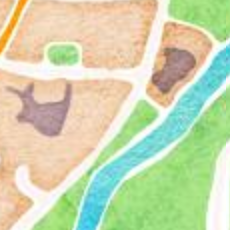
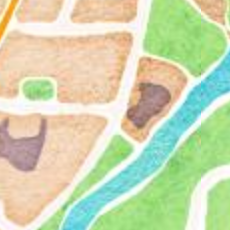
Move RST more to centre of Stratford map.

diff --git a/rsc.data.js b/rsc.data.js
@@ -22,21 +22,21 @@ RSC.Locations = {
 
     // Stratford
     'Royal Shakespeare Theatre': {
-        map: 'stratford', x:0.90, y:0.18, label_dir: 3, size: 'big',
-        surrogate: { map: 'stratford', x:0.80, y:0.28 }
+        map: 'stratford', x:0.79, y:0.33, label_dir: 3, size: 'big',
+        surrogate: { map: 'stratford', x:0.69, y:0.43 }
     },
-    'Courtyard Theatre': { map: 'stratford', x:0.20, y:0.75, label_dir: 3, size: 'medium' },
+    'Courtyard Theatre': { map: 'stratford', x:0.10, y:0.89, label_dir: 3, size: 'medium' },
     'Swan Theatre': {
-        map: 'stratford', x:0.84, y:0.47, label_dir: 0, size: 'medium',
-        surrogate: { map: 'stratford', x:0.74, y:0.37 }
+        map: 'stratford', x:0.73, y:0.62, label_dir: 0, size: 'medium',
+        surrogate: { map: 'stratford', x:0.63, y:0.52 }
     },
     'Swan Room': {
-        map: 'stratford', x:0.59, y:0.43, size: 'small',
-        surrogate: { map: 'stratford', x:0.69, y:0.33 }
+        map: 'stratford', x:0.48, y:0.58, size: 'small',
+        surrogate: { map: 'stratford', x:0.58, y:0.48 }
     },
     'PACCAR Room': {
-        map: 'stratford', x:0.65, y:0.13, label_dir: 2, size: 'small',
-        surrogate: { map: 'stratford', x:0.75, y:0.23 }
+        map: 'stratford', x:0.54, y:0.28, label_dir: 2, size: 'small',
+        surrogate: { map: 'stratford', x:0.64, y:0.38 }
     },
 
     // London
